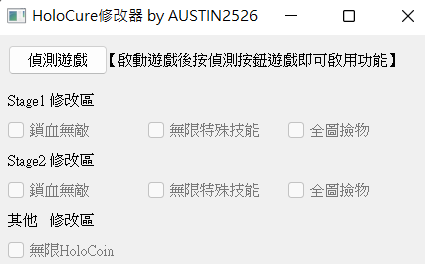
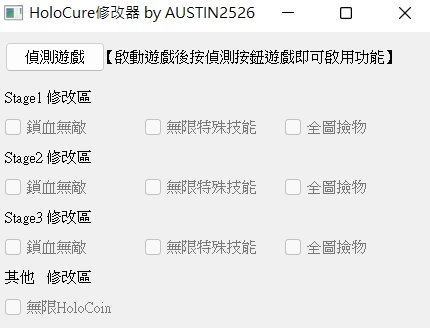
update

diff --git a/app.py b/app.py
@@ -24,6 +24,10 @@ class AppWindow(QWidget):
         self.ui.stage_2[0].clicked.connect(lambda: self.stage_2_threading(self.ui.stage_2[0].text()))
         self.ui.stage_2[1].clicked.connect(lambda: self.stage_2_threading(self.ui.stage_2[1].text()))
         self.ui.stage_2[2].clicked.connect(lambda: self.stage_2_threading(self.ui.stage_2[2].text()))
+        #stage3
+        self.ui.stage_3[0].clicked.connect(lambda: self.stage_3_threading(self.ui.stage_3[0].text()))
+        self.ui.stage_3[1].clicked.connect(lambda: self.stage_3_threading(self.ui.stage_3[1].text()))
+        self.ui.stage_3[2].clicked.connect(lambda: self.stage_3_threading(self.ui.stage_3[2].text()))
         #other
         self.ui.other[0].clicked.connect(lambda: self.other_threading(self.ui.other[0].text()))
 
@@ -42,6 +46,8 @@ class AppWindow(QWidget):
                 i.setEnabled(True)
             for i in self.ui.stage_2:
                 i.setEnabled(True)
+            for i in self.ui.stage_3:
+                i.setEnabled(True)
             for i in self.ui.other:
                 i.setEnabled(True)
             QMessageBox.information(None, '掃描', '已掃描到遊戲')
@@ -58,7 +64,7 @@ class AppWindow(QWidget):
         options_info = {
                      '鎖血無敵':[0,0x006FBD7C,[0x1900,0x140,0x24,0x10,0x144,0x4],1200470147],
                      '無限特殊技能':[1,0x006FBD7C, [0x1900,0x140,0x24,0x10,0x2DC,0x04],1100470147],
-                     '全圖撿物':[2,0x006FBD7C,[0x18FC,0x144,0x140,0x140,0x140,0x24,0x10,0x798,0x04],1100470147],
+                     '全圖撿物':[2,0x006FBD7C,[0x1900,0x140,0x24,0x10,0x798,0x04],1100470147],
                     }
         index, address, offsets, value = options_info[text]
         
@@ -83,15 +89,42 @@ class AppWindow(QWidget):
     def stage_2_enable(self,text):
         #index, base address, offsets
         options_info = {
-                     '鎖血無敵':[0,0x006FBD7C,[0x564,0x144,0x24,0x10,0x1E0,0x0,0x68,0x140,0x24,0x10,0x144,0x4],1200470147],
-                     '無限特殊技能':[1,0x006FBD7C, [0x564,0x144,0x24,0x10,0x9CC,0x0,0x78,0x140,0x24,0x10,0x2DC,0x4],1100470147],
-                     '全圖撿物':[2,0x006FBD7C,[0x564,0x144,0x24,0x10,0x33C,0x0,0x78,0x140,0x24,0x10,0x798,0x4],1100470147], 
+                     '鎖血無敵':[0,0x006FBD7C,[0x564,0x144,0x24,0x10,0x168,0x0,0x78,0x140,0x24,0x10,0x144,0x04],1200470147],
+                     '無限特殊技能':[1,0x006FBD7C, [0x564,0x144,0x24,0x10,0x168,0x0,0x78,0x140,0x24,0x10,0x2DC,0x4],1100470147],
+                     '全圖撿物':[2,0x006FBD7C,[0x564,0x144,0x24,0x10,0x168,0x0,0x78,0x140,0x24,0x10,0x798,0x4],1100470147], 
                     }
         index, address, offsets,value = options_info[text]
         
         while(1):
             #判斷開關是否開啟
             if self.ui.stage_2[index].isChecked():
+                try:
+                    addr  = self.Hacking(self.game_module + address, offsets)
+                    ##防止重複覆蓋數據造成CPU的負擔
+                    if self.windows.read_int(addr) != value:
+                        self.windows.write_int(addr, value)
+                except:
+                    pass
+            else:
+                break
+                
+    def stage_3_threading(self, text):   
+        t = threading.Thread(target = self.stage_3_enable,args = (text,))
+        t.setDaemon(True)
+        t.start()
+    
+    def stage_3_enable(self,text):
+        #index, base address, offsets
+        options_info = {
+                     '鎖血無敵':[0,0x006FBD7C, [0x18FC,0x140,0x24,0x10,0x144,0x04],1200470147],
+                     '無限特殊技能':[1,0x006FBD7C, [0x18FC,0x140,0x24,0x10,0x2DC,0x4],1100470147],
+                     '全圖撿物':[2,0x006FBD7C,[0x18FC,0x140,0x24,0x10,0x798,0x4],1100470147], 
+                    }
+        index, address, offsets,value = options_info[text]
+        
+        while(1):
+            #判斷開關是否開啟
+            if self.ui.stage_3[index].isChecked():
                 try:
                     addr  = self.Hacking(self.game_module + address, offsets)
                     ##防止重複覆蓋數據造成CPU的負擔

diff --git a/UI.py b/UI.py
@@ -3,7 +3,7 @@ from PyQt5 import QtCore, QtWidgets
 class Ui_Form(object):
     def setupUi(self, page):
         form_w = 440
-        form_h = 240
+        form_h = 300
         page.resize(form_w, form_h)
         page.setWindowTitle('HoloCure修改器 by AUSTIN2526')
         
@@ -32,14 +32,24 @@ class Ui_Form(object):
             self.stage_2[index].setGeometry(QtCore.QRect(10 + 140*index, 140 , 2000, 30))
             self.stage_2[index].setText(func_name[index])
             self.stage_2[index].setEnabled(False)
+            
+        
+        func_name = ['鎖血無敵', '無限特殊技能', '全圖撿物']
+        self.makelabel(page, 10, 170, 2000, 30,'Stage3 修改區')
+        self.stage_3 = []
+        for index in range(3):
+            self.stage_3.append(QtWidgets.QCheckBox(page))
+            self.stage_3[index].setGeometry(QtCore.QRect(10 + 140*index, 200 , 2000, 30))
+            self.stage_3[index].setText(func_name[index])
+            self.stage_3[index].setEnabled(False)
         
         #其他功能
         func_name = ['無限HoloCoin']
-        self.makelabel(page, 10, 170, 2000, 30,'其他   修改區')
+        self.makelabel(page, 10, 230, 2000, 30,'其他   修改區')
         self.other = []
         for index in range(1):
             self.other.append(QtWidgets.QCheckBox(page))
-            self.other[index].setGeometry(QtCore.QRect(10 + 140*index, 200 , 2000, 30))
+            self.other[index].setGeometry(QtCore.QRect(10 + 140*index, 260 , 2000, 30))
             self.other[index].setText(func_name[index])
             self.other[index].setEnabled(False)
            

diff --git a/README.md b/README.md
@@ -6,7 +6,7 @@ download(exe)
 ```
 https://github.com/AUSTIN2526/holocure-trainer/releases
 ```
-Modified holocure version DEMO 0.4.1662728581
+Modified holocure version DEMO 0.4.1662787865
 
 # Function
 
@@ -22,12 +22,6 @@ Modified holocure version DEMO 0.4.1662728581
 ● Unlimited Coin  
   Increase coin to 99999999(must be higher than randomMoneyKey)  
   
-●increase attack(maybe coming soon)  
-  maybe coming soon  
-  
-●increase haste (maybe coming soon)  
- maybe coming soon   
-  
 If function doesn't work, press esc can help you solve the problem  
 
 # Screenshot
@@ -37,3 +31,7 @@ If function doesn't work, press esc can help you solve the problem
 1.Open holocure and trainer  
 2.Click the detect button   
 3.Click on the option when you need
+
+## Please note
+1.Don't use HoloCure Launcher open the game
+2.Unlocking the collabs recipe function will not work
